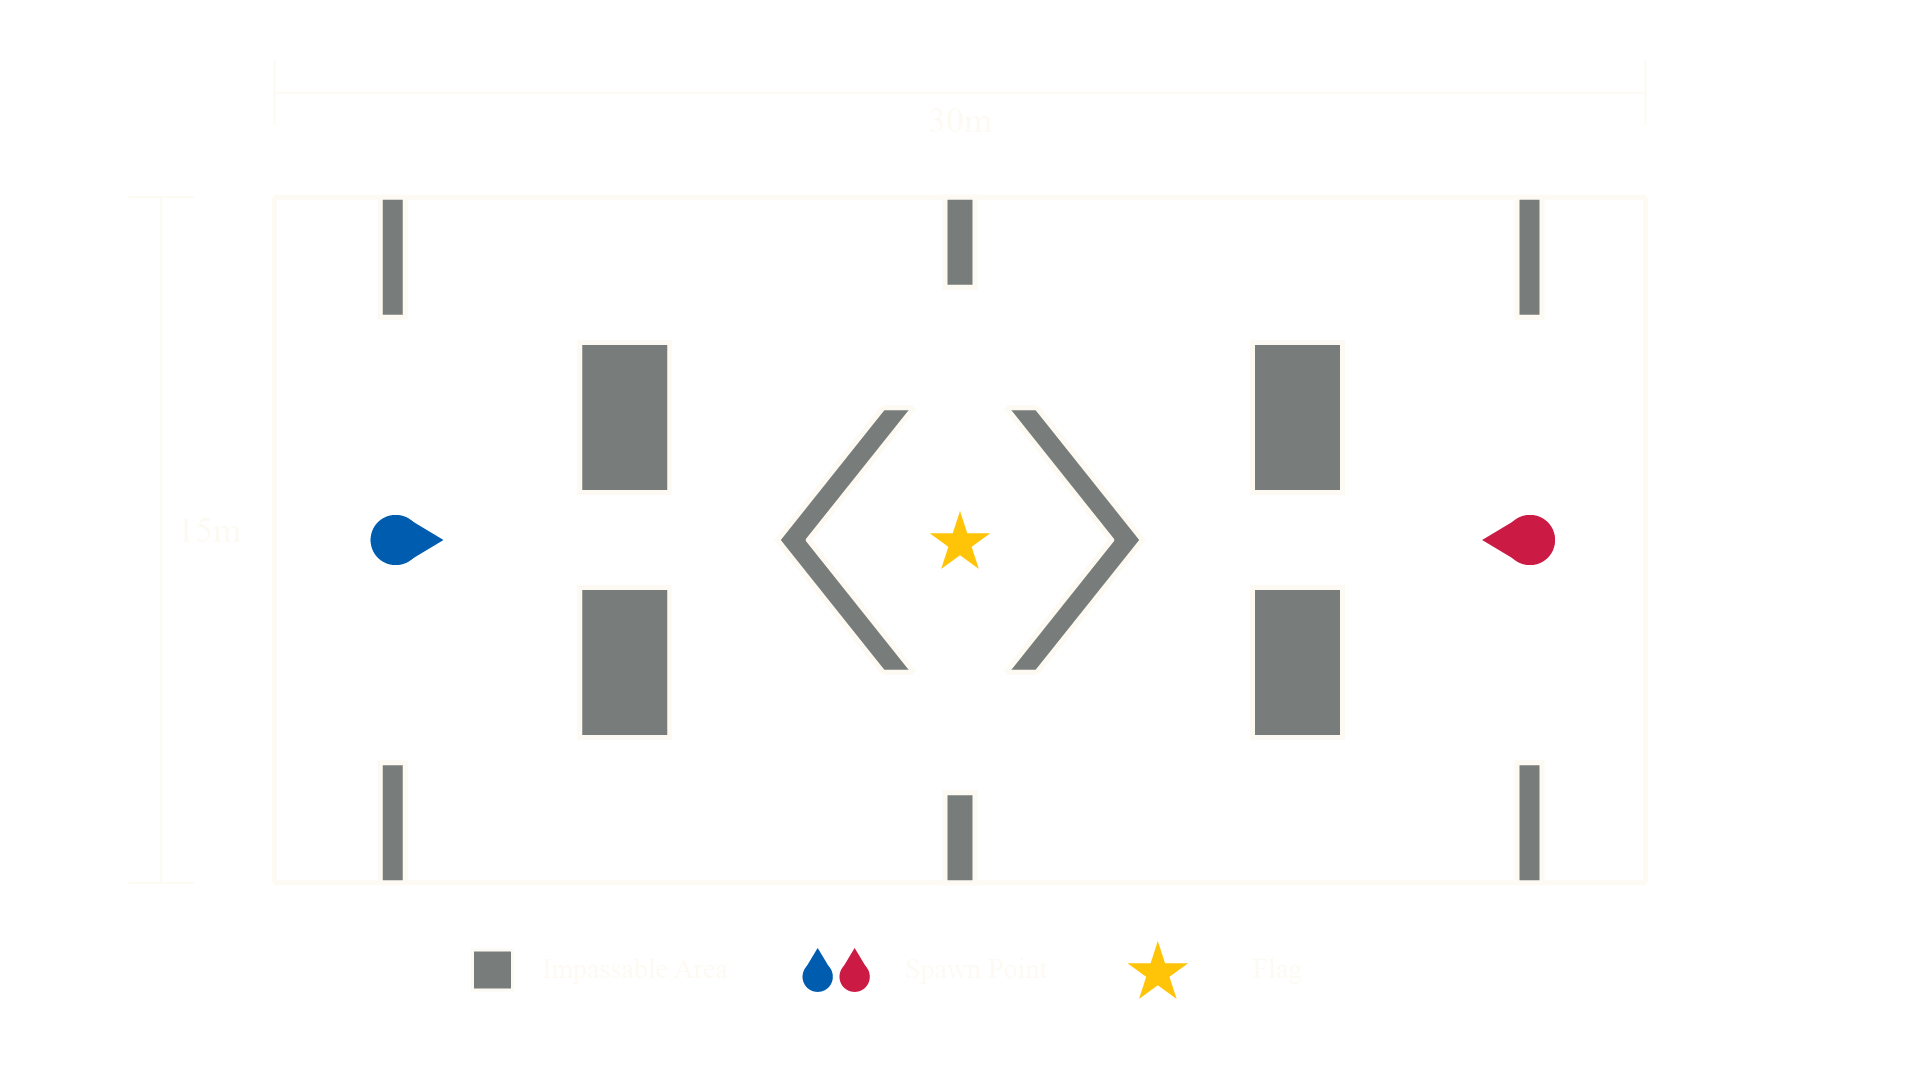
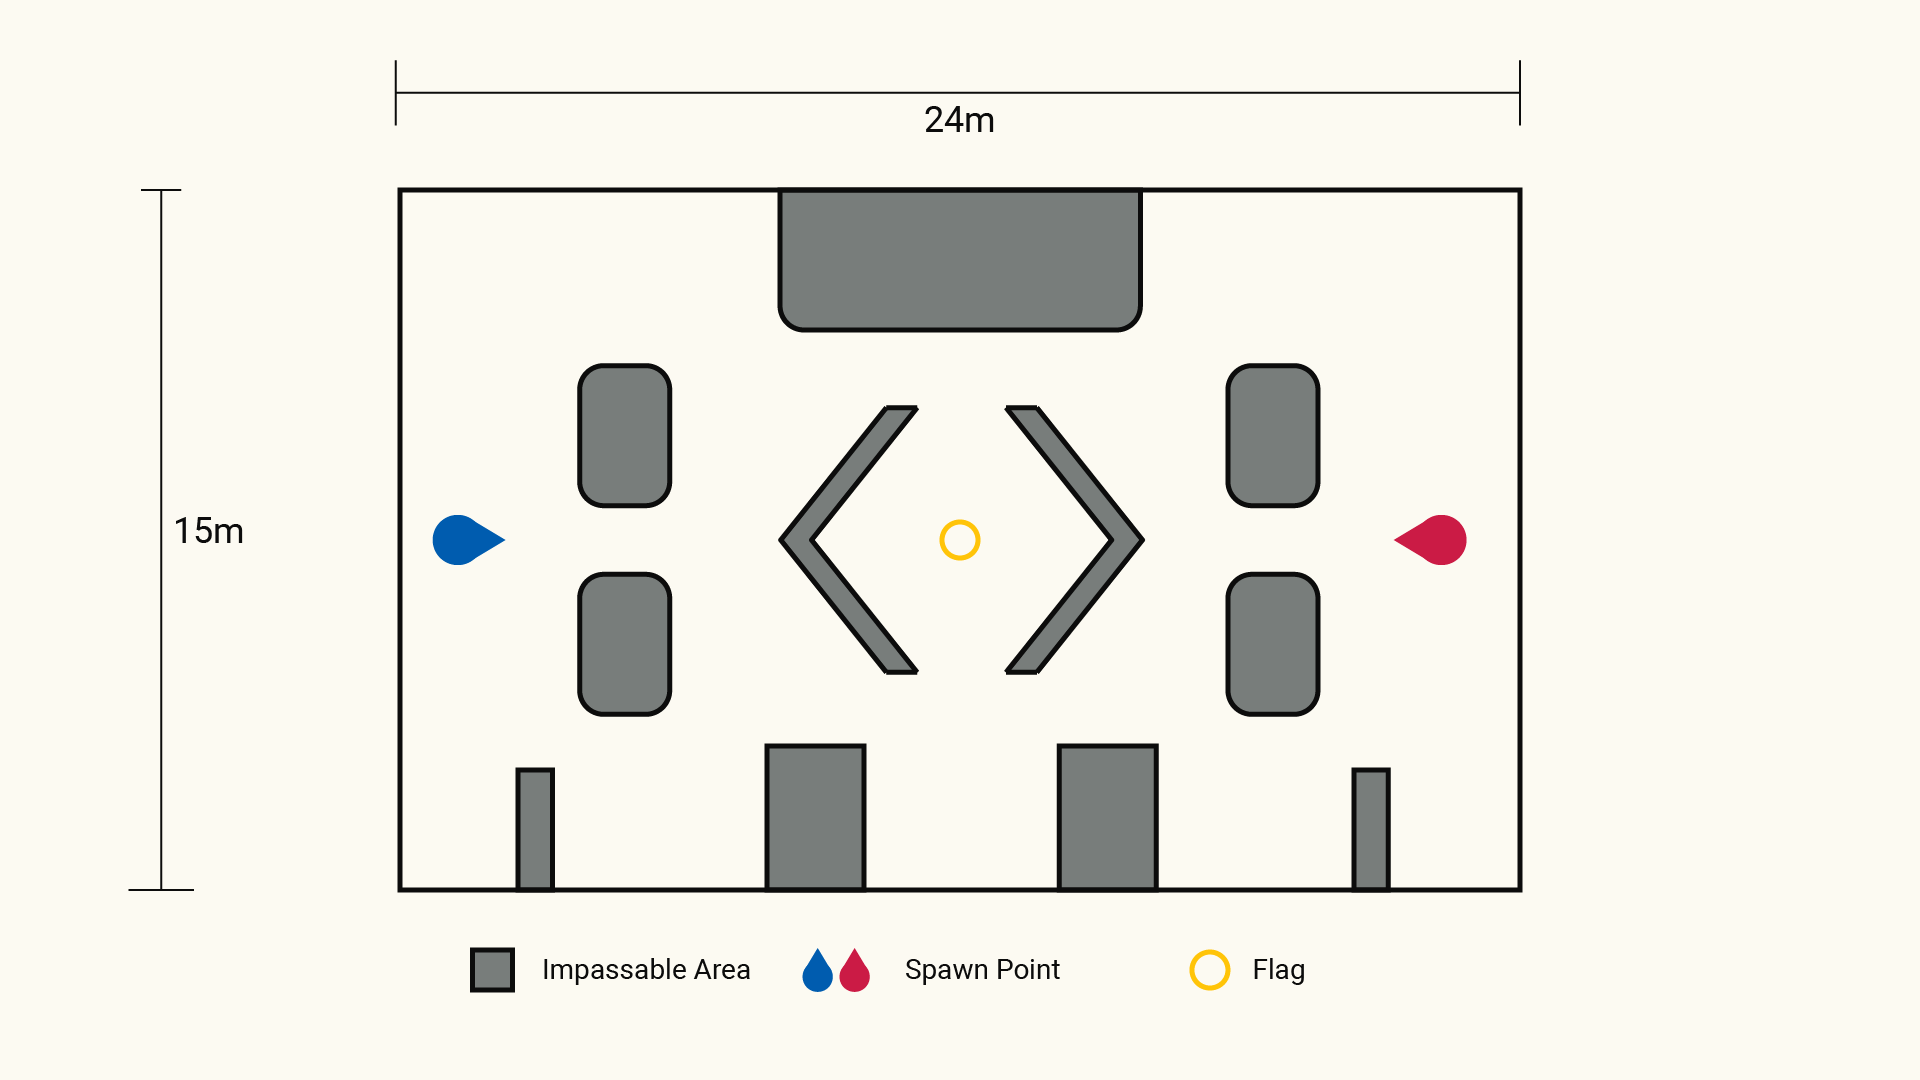
1.15 Minor Update
Updates for FPS combat level page.

diff --git a/levels/combat-zone.html b/levels/combat-zone.html
@@ -215,6 +215,7 @@
       <div class="main-design-description">
         <div class="element-image">
           <img src="/media/levels/combat-zone/ref.png" />
+          <img src="/media/levels/combat-zone/ref-2.png" />
         </div>
       </div>
 
@@ -227,15 +228,25 @@
         <div class="element-image">
           <img src="/media/levels/combat-zone/2d.png" />
         </div>
-        Different from the stealth level, the environment in combat levels are
-        wholly done inside of Unreal Engine, as I believe this could bring
-        better flexibility for iterating purpose.
+        So my standard for designing a small 1v1 gunfight map are mainly
+        twofold:<br />
+        - to allow both long-range and close-range combats to suit different
+        guns. This means there should be long lanes that offer great sightlines
+        as well as close-range covers.<br />
+        - to encourage some strategies such as smoke-and-flank, baiting.
+      </div>
+      <div class="main-design-title">
+        <hr />
+        player path
       </div>
       <div class="main-design-title">
         <hr />
         level construction
       </div>
       <div class="main-design-description">
+        Different from the stealth level, the environment in combat levels are
+        wholly done inside of Unreal Engine, as I believe this could bring
+        better flexibility for iterating purpose.<br />
         I used Blueprint to customize the first person shooter template.
       </div>
       <div class="main-design-title">
@@ -244,11 +255,11 @@
       </div>
 
       <div class="main-title">1v1: Asymmetrical</div>
+      <div class="main-design-title">
+        <hr />
+        2d map
+      </div>
       <div class="main-design-description">
-        <div class="main-design-title">
-          <hr />
-          2d map
-        </div>
         2v2 map design will begin as soon as 1v1 is well finished, and more
         detail will release in the future!
       </div>
